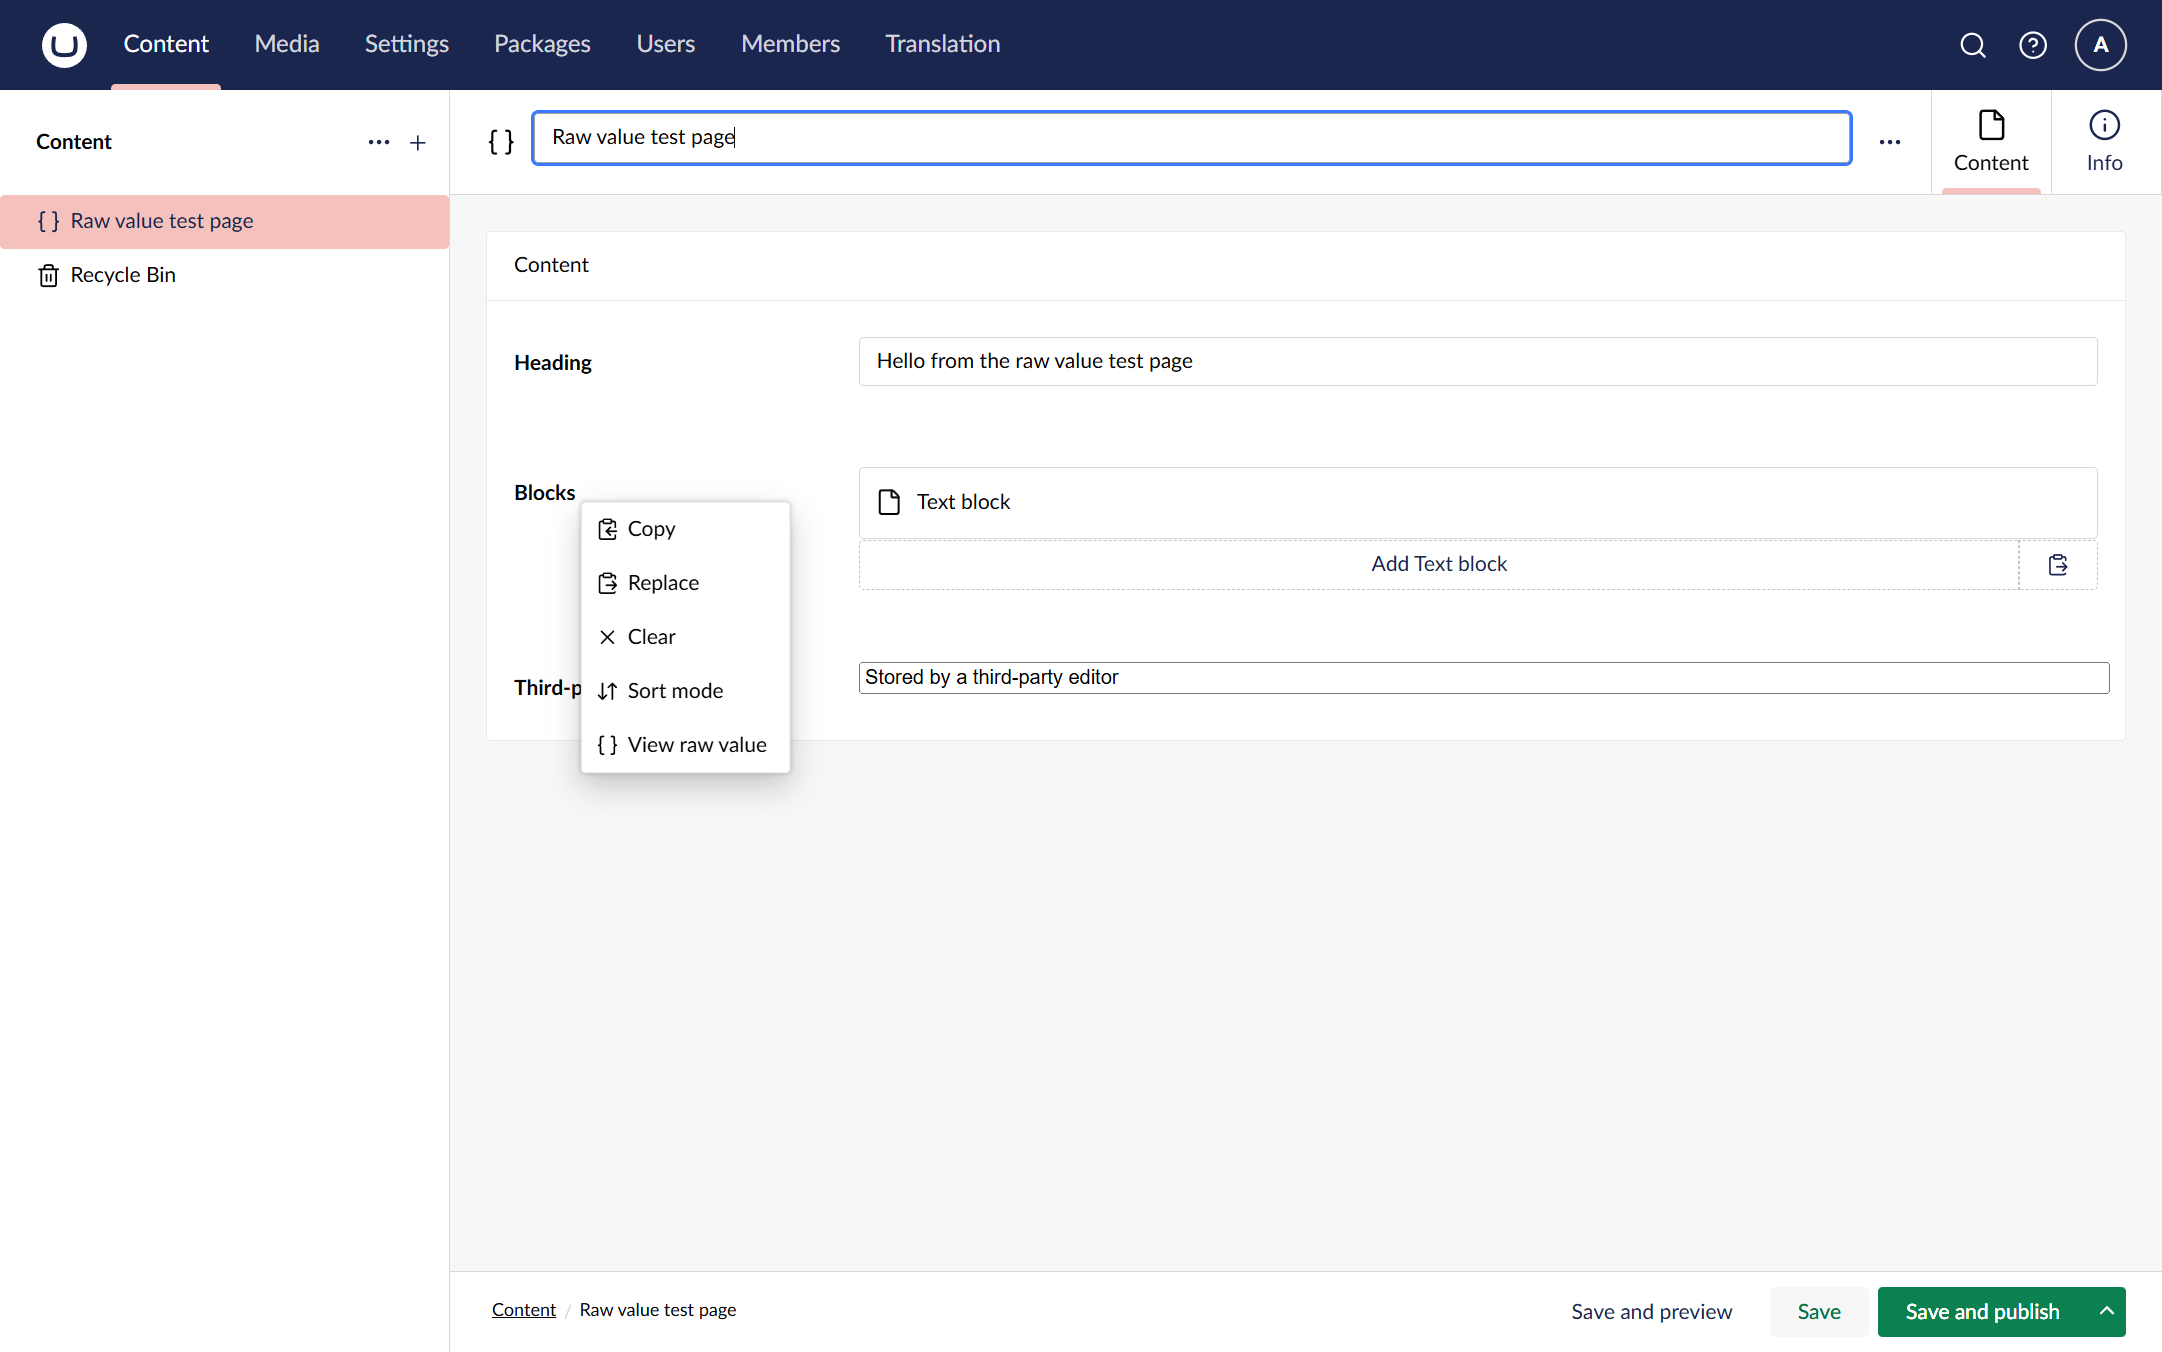
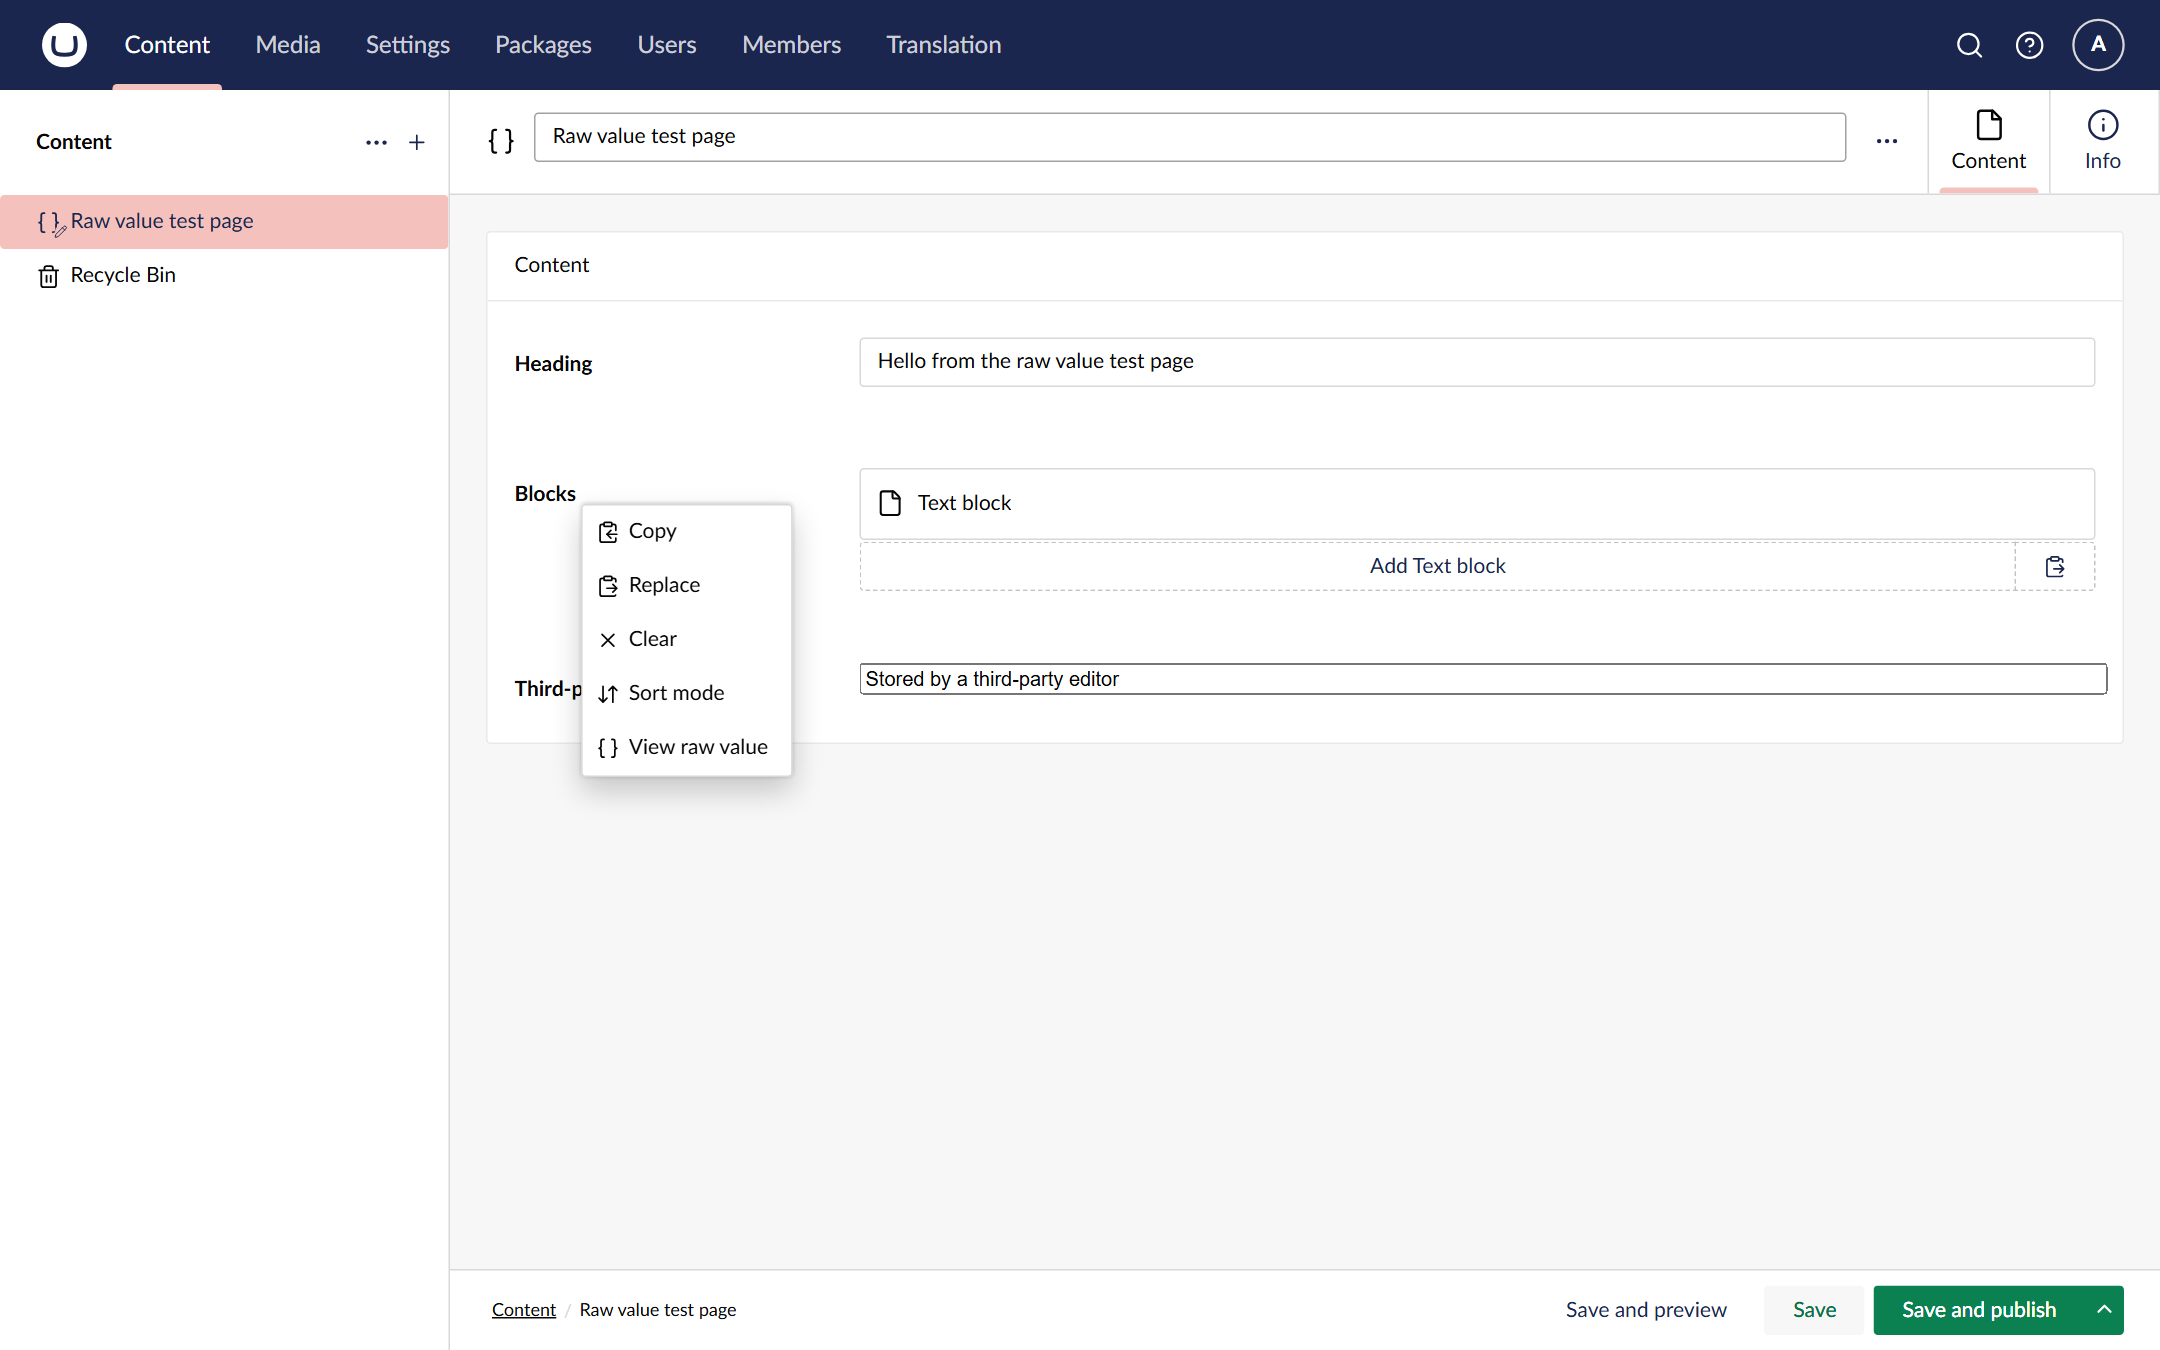
docs: regenerate the screenshots and document the e2e and smoke tests
The screenshots in docs/images now come from `bun run docs:screenshots`, at
1440 by 900 as before, and show the same views. CONTRIBUTING.md says how
to run the e2e suite, the package smoke test and the screenshot run.

Claude-Session: https://claude.ai/code/session_014beYQCvZw26DCSFk5nhNo4

diff --git a/CONTRIBUTING.md b/CONTRIBUTING.md
@@ -15,6 +15,32 @@ bun run typecheck && bun run test && bun run format:check && bun run build
 One source tree builds one package per Umbraco major (`docs/adr/0001`). Build and test both before sending a change
 that touches Umbraco APIs.
 
+## End-to-end tests
+
+The Playwright suite in `src/Umbraco.Community.PropertyJsonViewer/Client/e2e` drives the backoffice of both sample
+sites: the property action, the drawer's tabs, raw saves and an accessibility scan. It builds the client and the
+sites, then starts each site on its own port (44474 for Umbraco 17, 44484 for 18), or uses one already running there.
+
+```sh
+cd src/Umbraco.Community.PropertyJsonViewer/Client
+bunx playwright install chromium   # once
+bun run e2e                        # both majors; E2E_SITES=17 or E2E_SITES=18 for one
+bun run e2e:report                 # the HTML report of the last run
+```
+
+Stop a sample site before running the suite against the same major: both would use the site's database.
+
+## Package smoke test
+
+`tests/package-smoke/smoke_nupkg.py` installs a packed package on fresh sites of the major's lowest supported Umbraco
+version and its newest release, and checks it works with no configuration. Releases run it before publishing. It
+needs [uv](https://docs.astral.sh/uv/).
+
+```sh
+dotnet pack Umbraco.Community.PropertyJsonViewer.slnx -o artifacts -p:UmbracoMajor=17 -p:Version=17.0.0-alpha.0
+uv run tests/package-smoke/smoke_nupkg.py --packages artifacts --major 17
+```
+
 ## Run a sample site
 
 ```sh
@@ -43,5 +69,6 @@ The docs follow [Diataxis](https://diataxis.fr/): how-to guides, reference and e
 - *Choose* a labelled control (button, tab, menu item); *turn on* or *turn off* a toggle; *type* in a box; *hover
   over* a property. Do not use *select* or *click* for these.
 - No contractions.
-- Retake the screenshots in `docs/images` when the UI they show changes. Take them at 1440 by 900 on a freshly
-  seeded sample site.
+- Retake the screenshots in `docs/images` when the UI they show changes: run `bun run docs:screenshots` in the
+  client folder. It takes them at 1440 by 900 on the Umbraco 17 sample site (port 44470, started if it is not
+  running) and puts the test page's seeded values back afterwards.

diff --git a/CLAUDE.md b/CLAUDE.md
@@ -22,6 +22,8 @@ The build brief and the session handoff live in the maintainer's private plannin
 dotnet build && dotnet test                                  # Umbraco 17
 dotnet build -p:UmbracoMajor=18 && dotnet test -p:UmbracoMajor=18
 cd src/Umbraco.Community.PropertyJsonViewer/Client && bun run typecheck && bun run test && bun run build
+cd src/Umbraco.Community.PropertyJsonViewer/Client && bun run e2e   # Playwright against both sample sites (CONTRIBUTING.md)
+uv run tests/package-smoke/smoke_nupkg.py --packages artifacts --major 17   # packed nupkg on fresh sites
 dotnet run --project samples/PropertyJsonViewer.Site17                      # https://localhost:44470/umbraco
 dotnet run --project samples/PropertyJsonViewer.Site18 -p:UmbracoMajor=18   # https://localhost:44480/umbraco
 # login on both: admin@example.com / 1234567890
